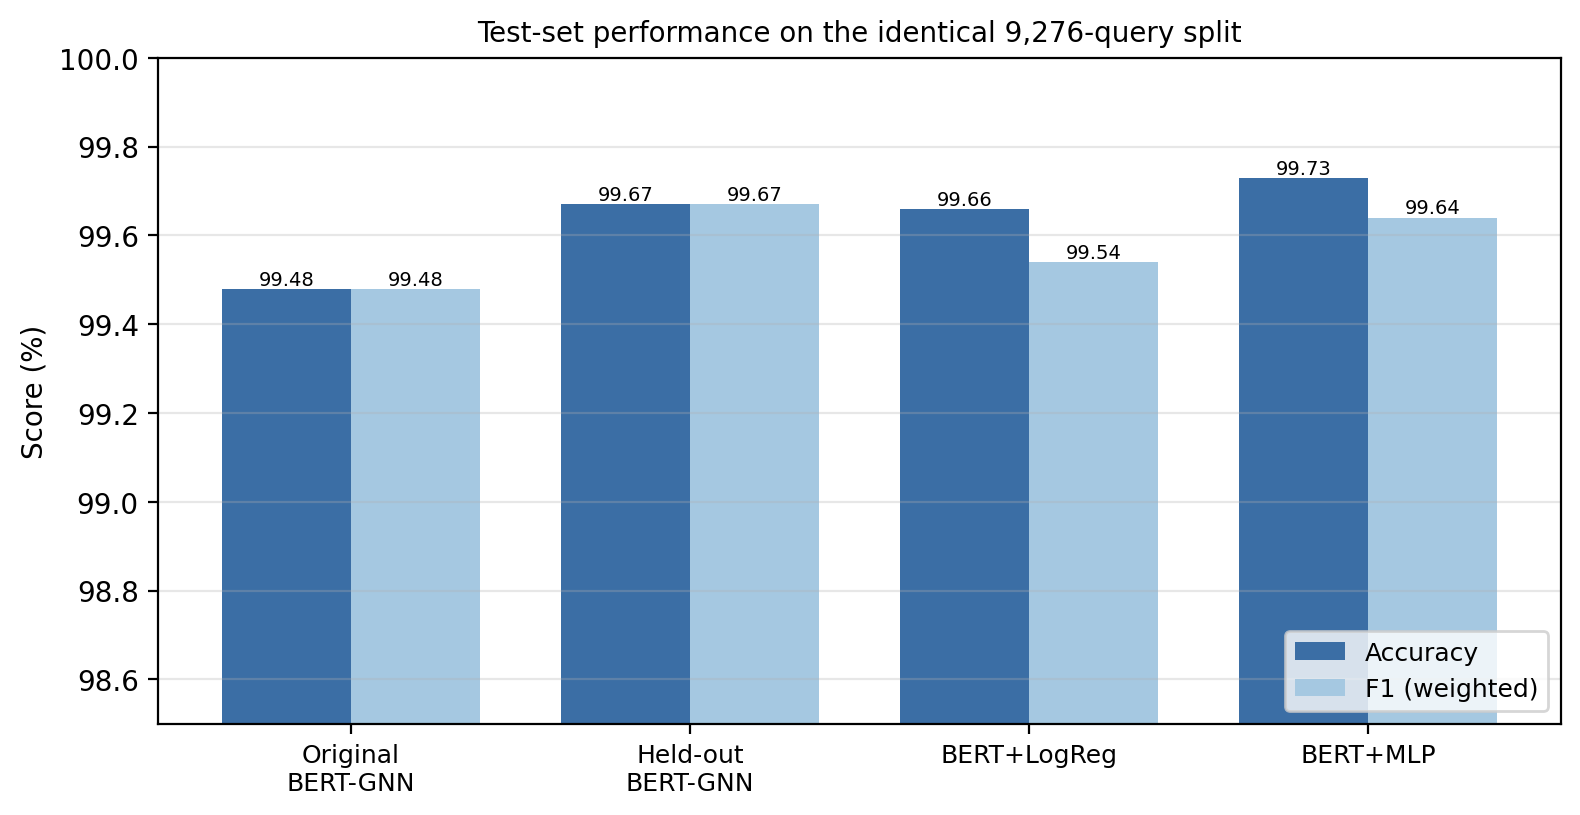
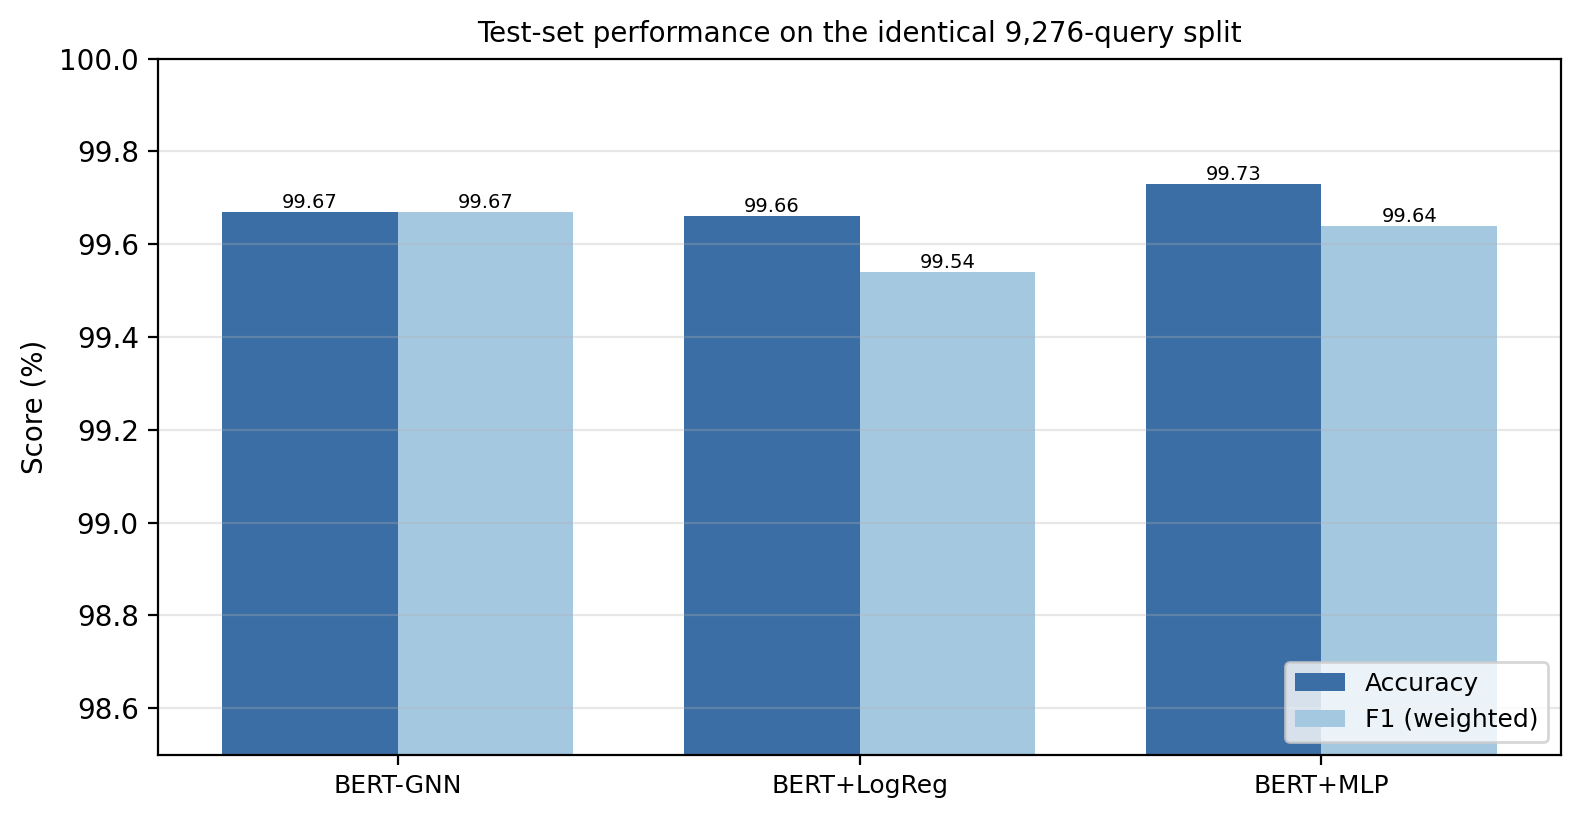
Comparison figure: drop the leaky-protocol bar, keep held-out BERT-GNN vs BERT-only
Reframes the clean-accuracy comparison around the correctly-trained model only.

diff --git a/make_result_figures.py b/make_result_figures.py
@@ -56,9 +56,8 @@ def plot_cm(cm, title, path):
 
 
 def plot_comparison(path):
-    names = list(MODELS)
-    short = ["Original\nBERT-GNN", "Held-out\nBERT-GNN",
-             "BERT+LogReg", "BERT+MLP"]
+    names = [k for k in MODELS if not k.startswith("Original")]   # drop the leaky-protocol variant
+    short = ["BERT-GNN", "BERT+LogReg", "BERT+MLP"]
     acc = [MODELS[n]["acc"] for n in names]
     f1 = [MODELS[n]["f1"] for n in names]
     x = np.arange(len(names)); w = 0.38
